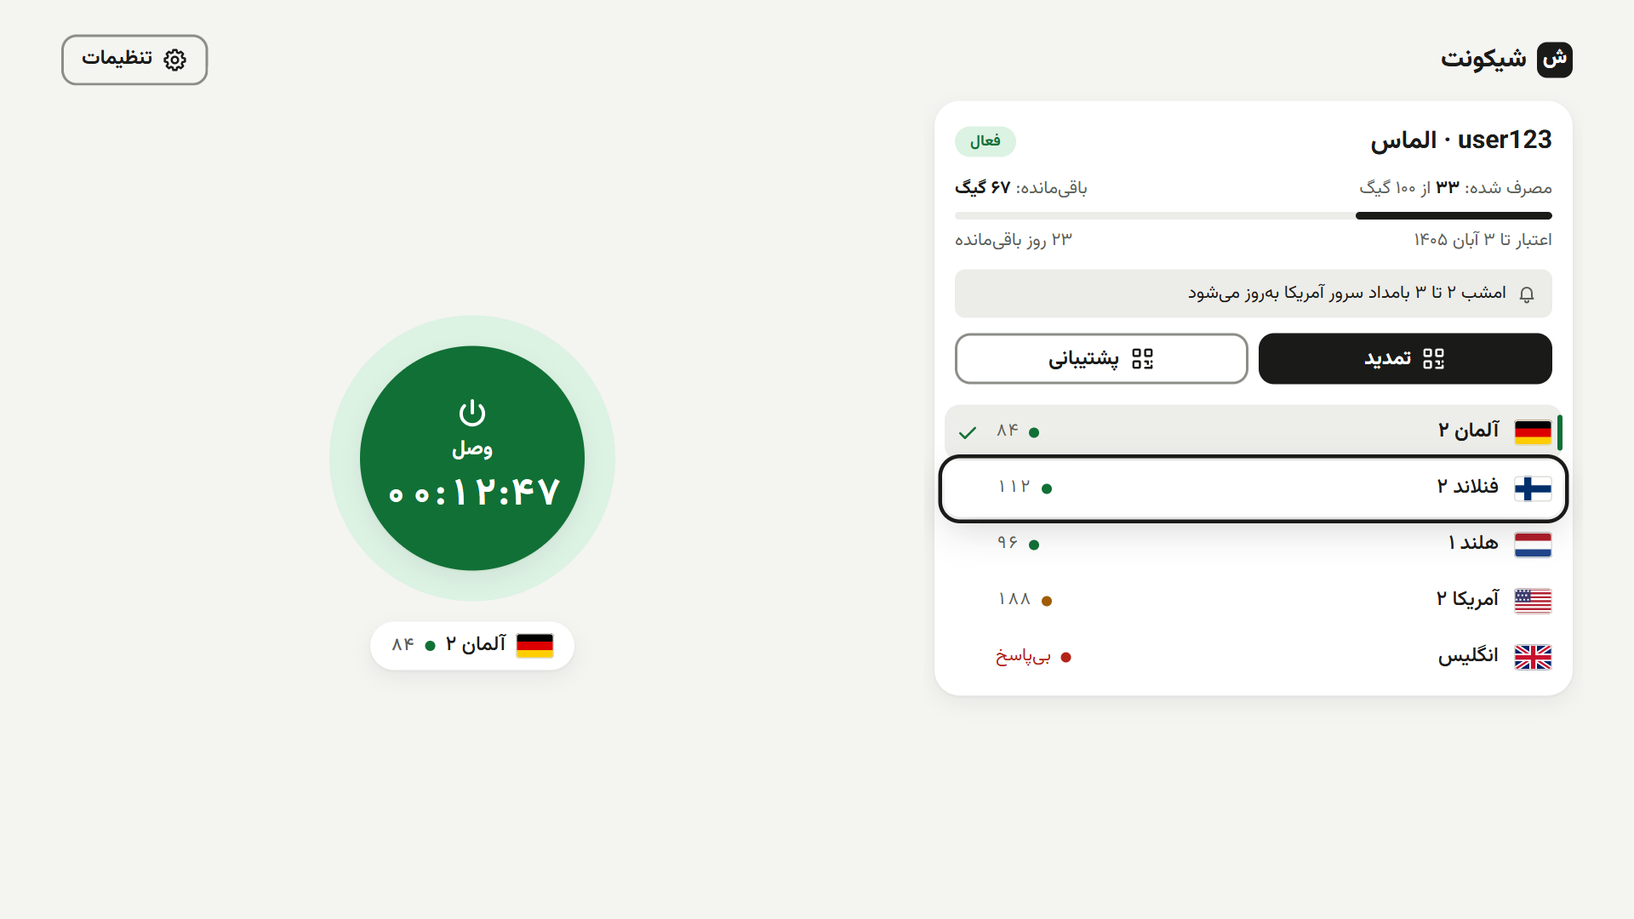
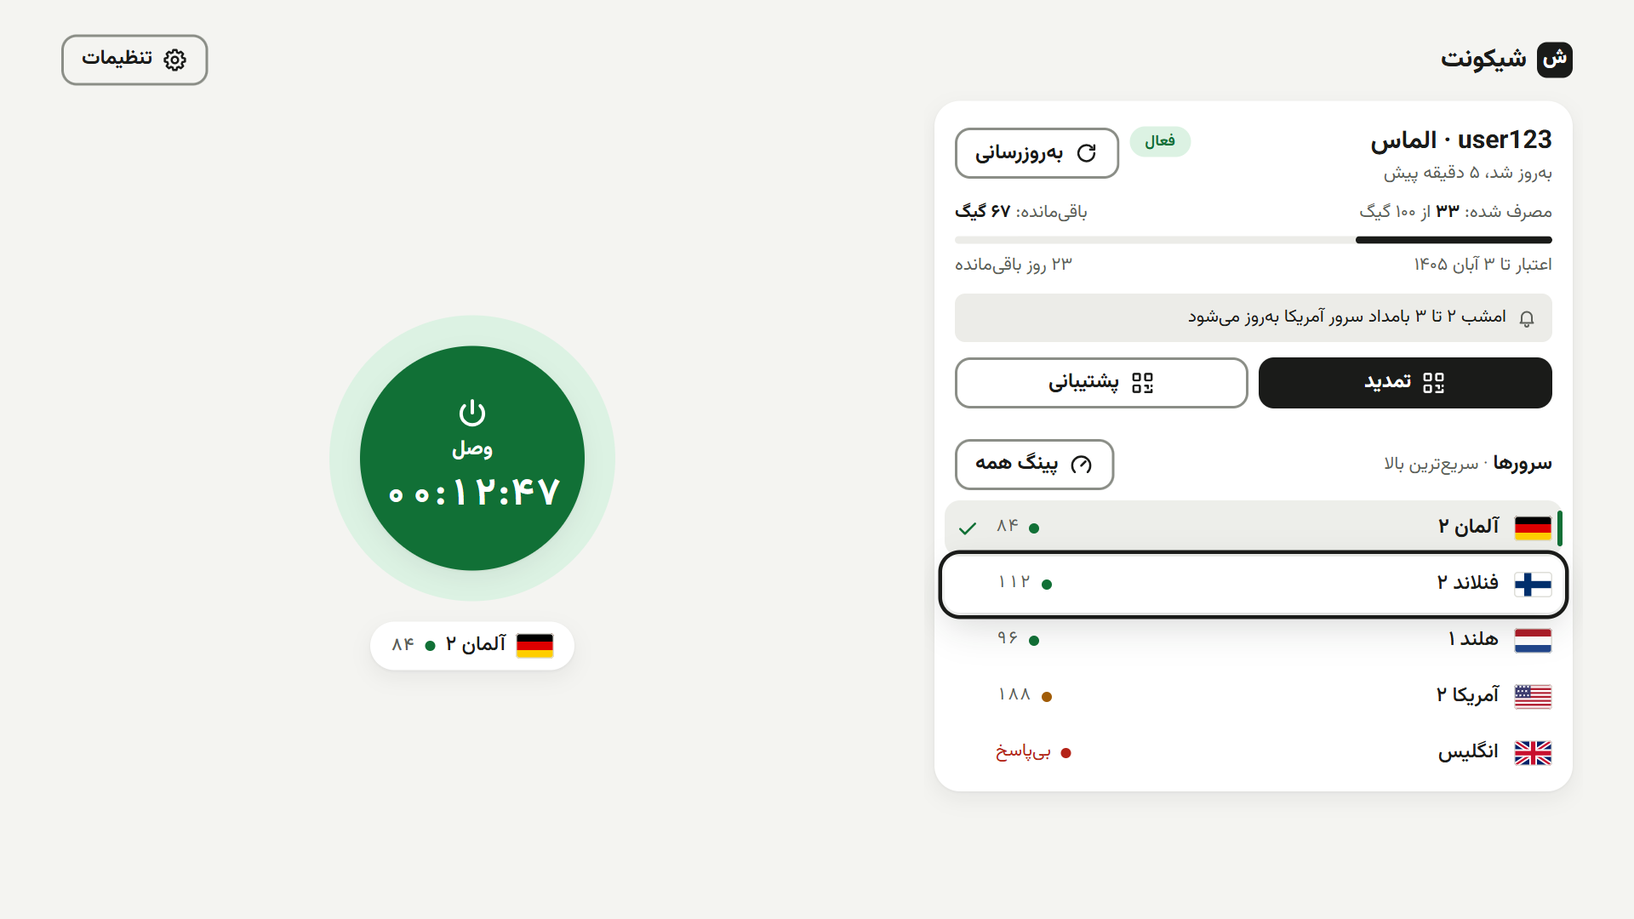
docs(design): rule on phone round 3 and catch up the old home frames
The renew-or-switch line breaks after the comma, so neither phone nor TV
leaves a lone word on line two; the out-of-data frame now shows it with a
second service. The older home frames get the refresh header and list
head the app already has, and the phone connect timeout reads 30 seconds
like the app.

diff --git a/design/mockups/phone-states.html b/design/mockups/phone-states.html
@@ -52,8 +52,11 @@
         </section>
         <article class="card svc">
           <header class="svc-head">
-            <h2 class="svc-name"><bdi dir="ltr">user123</bdi> · الماس</h2>
-            <span class="chip chip-positive">فعال</span>
+            <div class="svc-titles">
+              <div class="svc-line"><h2 class="svc-name"><bdi dir="ltr">user123</bdi> · الماس</h2><span class="chip chip-positive">فعال</span></div>
+              <p class="svc-sub">بهروز شد، ۵ دقیقه پیش</p>
+            </div>
+            <button class="icon-btn" type="button" aria-label="بهروزرسانی سرورها"><svg class="icon"><use href="#i-refresh"/></svg></button>
             <svg class="icon"><use href="#i-chevron-up"/></svg>
           </header>
           <div class="usage">
@@ -65,6 +68,10 @@
           <div class="actions">
             <button class="btn btn-primary" type="button">تمدید</button>
             <button class="btn btn-outline" type="button">پشتیبانی</button>
+          </div>
+          <div class="list-head">
+            <div class="search"><svg class="icon"><use href="#i-search"/></svg><span>جستوجوی سرور</span></div>
+            <button class="btn btn-outline" type="button"><svg class="icon"><use href="#i-gauge"/></svg>پینگ همه</button>
           </div>
           <ul class="servers">
             <li class="server is-selected"><svg class="flag"><use href="#f-de"/></svg><span class="name">آلمان ۲<bdi class="proto">V2Ray</bdi></span><span class="ping">۸۴</span><svg class="icon tick"><use href="#i-check"/></svg></li>
@@ -79,7 +86,7 @@
       <div class="gesture"></div>
     </div>
     <p class="note">«وصل» فقط وقتی نشان داده میشود که موتور اتصال را واقعاً تأیید کرده باشد؛ تا آن موقع همین حالت میماند.</p>
-    <p class="note"><b>پیشنهاد</b>اگر تا ۲۰ ثانیه وصل نشد، به «وصل نشد» میرود (قاب بعدی). عدد ۲۰ ثانیه حدس است و باید روی شبکهٔ واقعی سنجیده شود.</p>
+    <p class="note">اگر تا ۳۰ ثانیه وصل نشد، به «وصل نشد» میرود (قاب بعدی). ۳۰ ثانیه مهلتِ خودِ اپ است، مثل تلویزیون؛ روی شبکهٔ واقعی سنجیده نشده.</p>
   </figure>
 
   <!-- خطای اتصال -->
@@ -100,12 +107,15 @@
               <span class="power-sub">دوباره بزن</span>
             </button>
           </div>
-          <p class="power-msg danger">آلمان ۲ تا ۲۰ ثانیه جواب نداد. دوباره بزن، یا از فهرست سرور دیگری انتخاب کن.</p>
+          <p class="power-msg danger">آلمان ۲ تا ۳۰ ثانیه جواب نداد. دوباره بزن، یا از فهرست سرور دیگری انتخاب کن.</p>
         </section>
         <article class="card svc">
           <header class="svc-head">
-            <h2 class="svc-name"><bdi dir="ltr">user123</bdi> · الماس</h2>
-            <span class="chip chip-positive">فعال</span>
+            <div class="svc-titles">
+              <div class="svc-line"><h2 class="svc-name"><bdi dir="ltr">user123</bdi> · الماس</h2><span class="chip chip-positive">فعال</span></div>
+              <p class="svc-sub">بهروز شد، ۵ دقیقه پیش</p>
+            </div>
+            <button class="icon-btn" type="button" aria-label="بهروزرسانی سرورها"><svg class="icon"><use href="#i-refresh"/></svg></button>
             <svg class="icon"><use href="#i-chevron-up"/></svg>
           </header>
           <div class="usage">
@@ -117,6 +127,10 @@
           <div class="actions">
             <button class="btn btn-primary" type="button">تمدید</button>
             <button class="btn btn-outline" type="button">پشتیبانی</button>
+          </div>
+          <div class="list-head">
+            <div class="search"><svg class="icon"><use href="#i-search"/></svg><span>جستوجوی سرور</span></div>
+            <button class="btn btn-outline" type="button"><svg class="icon"><use href="#i-gauge"/></svg>پینگ همه</button>
           </div>
           <ul class="servers">
             <li class="server is-selected"><svg class="flag"><use href="#f-de"/></svg><span class="name">آلمان ۲<bdi class="proto">V2Ray</bdi></span><span class="ping bad">بیپاسخ</span><svg class="icon tick"><use href="#i-check"/></svg></li>
@@ -131,7 +145,7 @@
       <div class="gesture"></div>
     </div>
     <p class="note">دکمهٔ گرد حالا یعنی «دوباره». پینگِ سرورِ انتخابشده هم «بیپاسخ» میشود تا علت دیده شود.</p>
-    <p class="note"><b>پیشنهاد</b>«۲۰ ثانیه» در متن این قاب حدس است؛ مهلت واقعی باید روی شبکهٔ واقعی سنجیده و تعیین شود.</p>
+    <p class="note">عدد پیام همان مهلت اپ است (۳۰ ثانیه)؛ اگر مهلت عوض شد، این عدد هم با آن عوض میشود.</p>
   </figure>
 
   <!-- حجم تمام شده -->
@@ -151,7 +165,7 @@
               <span class="power-label">حجم تمام شده</span>
             </div>
           </div>
-          <p class="power-msg">با «تمدید» دوباره وصل میشوی.</p>
+          <p class="power-msg">با «تمدید» دوباره وصل میشوی،<br>یا سرویس دیگرت را انتخاب کن.</p>
         </section>
         <article class="card svc">
           <header class="svc-head">
@@ -174,12 +188,23 @@
           </div>
           <p class="state-msg">فهرست سرورها بعد از تمدید برمیگردد.</p>
         </article>
+        <article class="card svc">
+          <header class="svc-head">
+            <div class="svc-titles">
+              <div class="svc-line"><h2 class="svc-name"><bdi dir="ltr">user789</bdi> · معمولی</h2><span class="chip chip-positive">فعال</span></div>
+              <p class="svc-sub">بهروز شد، ۵ دقیقه پیش</p>
+            </div>
+            <button class="icon-btn" type="button" aria-label="بهروزرسانی سرورها"><svg class="icon"><use href="#i-refresh"/></svg></button>
+            <svg class="icon"><use href="#i-chevron-down"/></svg>
+          </header>
+          <p class="svc-summary">مصرف شده: ۱۲ از ۵۰ گیگ · اعتبار تا ۱۰ آذر ۱۴۰۵</p>
+        </article>
       </div>
       <div class="gesture"></div>
     </div>
     <p class="note">نوار مثل ربات به اندازهٔ مصرف پر میشود و «۱۰۰٪» فقط برای حجمی است که واقعاً تمام شده.</p>
     <p class="note">سربرگ همان سربرگ کارت فعال است. دکمهٔ بهروزرسانی اینجا لازمتر است: مشتری در ربات تمدید میکند و برمیگردد، و بهروزرسانیِ خودکار تا ۱۰ دقیقه نمیآید. اطلاعیهٔ پنل هم میماند، چون شاید دربارهٔ همین تمدید باشد.</p>
-    <p class="note"><b>پیشنهاد</b>اگر سرویس فعال دیگری روی گوشی هست، پیام زیر دکمه این میشود: «با «تمدید» دوباره وصل میشوی، یا سرویس دیگرت را انتخاب کن.» تا مشتریای که دو سرویس دارد، برای وصل شدن پول تمدید ندهد.</p>
+    <p class="note">این قاب سرویس فعال دیگری هم دارد، پس پیام زیر دکمه دو خطِ ثابت است: «با «تمدید» دوباره وصل میشوی،» و «یا سرویس دیگرت را انتخاب کن.»، تا مشتریای که دو سرویس دارد برای وصل شدن پول تمدید ندهد. بی سرویس دیگر، فقط خط اول میآید (قاب بعدی). شکستنِ خودکار روی تلویزیون «کن.» را تنها به خط دوم میفرستاد.</p>
   </figure>
 
   <!-- اعتبار تمام شده -->
@@ -693,7 +718,7 @@
       <p class="notice msg danger"><svg class="icon"><use href="#i-alert"/></svg><span><strong>لینک الان باز نشد.</strong> کمی بعد دوباره بزن؛ اگر باز نشد، از «پشتیبانی» بپرس.</span></p>
     </div>
     <p class="note">از بالا: دکمه تا جواب سرور، کلیپبورد خالی، لینک غیرشیکونت، لینکی که سرور دیگر نمیشناسد، بیاینترنت، و جوابی که خوانده نشد. همه جای پیام قاب قبلی میآیند.</p>
-    <p class="note">«باطل شده یا منقضی» فقط وقتی است که سرور صریح بگوید این لینک را نمیشناسد (۴۰۴ یا ۴۱۰). خطای سرور (۵۰۰ به بالا)، جواب خالی، یا صفحهٔ وب بهجای اشتراک «لینک الان باز نشد» است: اپ نمیداند لینک خراب است، پس نباید بگوید باطل شده. صفحهٔ وب ممکن است صفحهٔ ورودِ وایفایِ هتل یا صفحهٔ فیلتر باشد. «سرور» در متن نمیآید، چون مشتری آن را با سرورهای فهرست یکی میگیرد.</p>
+    <p class="note">«باطل شده یا منقضی» فقط وقتی است که سرور صریح بگوید این لینک را نمیشناسد (۴۰۴ یا ۴۱۰). خطای سرور (۵۰۰ به بالا)، جواب خالی، صفحهٔ وب بهجای اشتراک، یا اشتراکی که فقط ردیفهای غیرسرور دارد و حجم و اعتبارش هم تمام نشده، «لینک الان باز نشد» است: اپ نمیداند لینک خراب است، پس نباید بگوید باطل شده. صفحهٔ وب ممکن است صفحهٔ ورودِ وایفایِ هتل یا صفحهٔ فیلتر باشد. «سرور» در متن نمیآید، چون مشتری آن را با سرورهای فهرست یکی میگیرد.</p>
     <p class="note">لینکِ سرویسی که از قبل روی گوشی است، کارت دوم نمیسازد: نام کاربری در پنل یکتاست، پس همان کارت لینک تازه را میگیرد و باز میشود. لینک تازه کار کرده، پس لینک قبلی همان است که باطل شده.</p>
     <p class="note">سرویسی که فقط اعتبار یا حجمش تمام شده، باطل حساب نمیشود: اضافه میشود و خانه «تمدید» را نشان میدهد. «باطل شده یا منقضی» فقط برای لینکی است که سرور دیگر جواب نمیدهد.</p>
     <p class="note"><b>پیشنهاد</b>اگر نشانی اشتراک از ایران بیفیلترشکن باز نشود، «اینترنت وصل نیست» گمراهکننده است. اینکه اپ این دو را از هم جدا کند، با برنامهنویس است.</p>

diff --git a/design/mockups/tv-states.html b/design/mockups/tv-states.html
@@ -42,8 +42,11 @@
           <div class="tv-col-content">
             <article class="card svc">
               <header class="svc-head">
-                <h2 class="svc-name"><bdi dir="ltr">user123</bdi> · الماس</h2>
-                <span class="chip chip-positive">فعال</span>
+                <div class="svc-titles">
+                  <div class="svc-line"><h2 class="svc-name"><bdi dir="ltr">user123</bdi> · الماس</h2><span class="chip chip-positive">فعال</span></div>
+                  <p class="svc-sub">بهروز شد، ۵ دقیقه پیش</p>
+                </div>
+                <button class="btn btn-outline" type="button"><svg class="icon"><use href="#i-refresh"/></svg>بهروزرسانی</button>
               </header>
               <div class="usage">
                 <div class="usage-row"><span>مصرف شده: <strong>۳۳</strong> از ۱۰۰ گیگ</span><span>باقیمانده: <strong>۶۷ گیگ</strong></span></div>
@@ -54,6 +57,10 @@
               <div class="actions">
                 <button class="btn btn-primary" type="button"><svg class="icon"><use href="#i-qr"/></svg>تمدید</button>
                 <button class="btn btn-outline" type="button"><svg class="icon"><use href="#i-qr"/></svg>پشتیبانی</button>
+              </div>
+              <div class="list-head">
+                <p class="list-caption"><strong>سرورها</strong> · سریعترین بالا</p>
+                <button class="btn btn-outline" type="button"><svg class="icon"><use href="#i-gauge"/></svg>پینگ همه</button>
               </div>
               <ul class="servers">
                 <li class="server is-selected"><svg class="flag"><use href="#f-de"/></svg><span class="name">آلمان ۲<bdi class="proto">V2Ray</bdi></span><span class="ping">۸۴</span><svg class="icon tick"><use href="#i-check"/></svg></li>
@@ -94,8 +101,11 @@
           <div class="tv-col-content">
             <article class="card svc">
               <header class="svc-head">
-                <h2 class="svc-name"><bdi dir="ltr">user123</bdi> · الماس</h2>
-                <span class="chip chip-positive">فعال</span>
+                <div class="svc-titles">
+                  <div class="svc-line"><h2 class="svc-name"><bdi dir="ltr">user123</bdi> · الماس</h2><span class="chip chip-positive">فعال</span></div>
+                  <p class="svc-sub">بهروز شد، ۵ دقیقه پیش</p>
+                </div>
+                <button class="btn btn-outline" type="button"><svg class="icon"><use href="#i-refresh"/></svg>بهروزرسانی</button>
               </header>
               <div class="usage">
                 <div class="usage-row"><span>مصرف شده: <strong>۳۳</strong> از ۱۰۰ گیگ</span><span>باقیمانده: <strong>۶۷ گیگ</strong></span></div>
@@ -106,6 +116,10 @@
               <div class="actions">
                 <button class="btn btn-primary" type="button"><svg class="icon"><use href="#i-qr"/></svg>تمدید</button>
                 <button class="btn btn-outline" type="button"><svg class="icon"><use href="#i-qr"/></svg>پشتیبانی</button>
+              </div>
+              <div class="list-head">
+                <p class="list-caption"><strong>سرورها</strong> · سریعترین بالا</p>
+                <button class="btn btn-outline" type="button"><svg class="icon"><use href="#i-gauge"/></svg>پینگ همه</button>
               </div>
               <ul class="servers">
                 <li class="server is-selected"><svg class="flag"><use href="#f-de"/></svg><span class="name">آلمان ۲<bdi class="proto">V2Ray</bdi></span><span class="ping">۸۴</span><svg class="icon tick"><use href="#i-check"/></svg></li>

diff --git a/design/mockups/phone.html b/design/mockups/phone.html
@@ -80,8 +80,11 @@
         </section>
         <article class="card svc">
           <header class="svc-head">
-            <h2 class="svc-name"><bdi dir="ltr">user123</bdi> · الماس</h2>
-            <span class="chip chip-positive">فعال</span>
+            <div class="svc-titles">
+              <div class="svc-line"><h2 class="svc-name"><bdi dir="ltr">user123</bdi> · الماس</h2><span class="chip chip-positive">فعال</span></div>
+              <p class="svc-sub">بهروز شد، ۵ دقیقه پیش</p>
+            </div>
+            <button class="icon-btn" type="button" aria-label="بهروزرسانی سرورها"><svg class="icon"><use href="#i-refresh"/></svg></button>
             <svg class="icon"><use href="#i-chevron-up"/></svg>
           </header>
           <div class="usage">
@@ -93,6 +96,10 @@
           <div class="actions">
             <button class="btn btn-primary" type="button">تمدید</button>
             <button class="btn btn-outline" type="button">پشتیبانی</button>
+          </div>
+          <div class="list-head">
+            <div class="search"><svg class="icon"><use href="#i-search"/></svg><span>جستوجوی سرور</span></div>
+            <button class="btn btn-outline" type="button"><svg class="icon"><use href="#i-gauge"/></svg>پینگ همه</button>
           </div>
           <ul class="servers">
             <li class="server is-selected"><svg class="flag"><use href="#f-de"/></svg><span class="name">آلمان ۲<bdi class="proto">V2Ray</bdi></span><span class="ping">۸۴</span><svg class="icon tick"><use href="#i-check"/></svg></li>
@@ -131,8 +138,11 @@
         </section>
         <article class="card svc">
           <header class="svc-head">
-            <h2 class="svc-name"><bdi dir="ltr">user123</bdi> · الماس</h2>
-            <span class="chip chip-positive">فعال</span>
+            <div class="svc-titles">
+              <div class="svc-line"><h2 class="svc-name"><bdi dir="ltr">user123</bdi> · الماس</h2><span class="chip chip-positive">فعال</span></div>
+              <p class="svc-sub">بهروز شد، ۵ دقیقه پیش</p>
+            </div>
+            <button class="icon-btn" type="button" aria-label="بهروزرسانی سرورها"><svg class="icon"><use href="#i-refresh"/></svg></button>
             <svg class="icon"><use href="#i-chevron-up"/></svg>
           </header>
           <div class="usage">
@@ -144,6 +154,10 @@
           <div class="actions">
             <button class="btn btn-primary" type="button">تمدید</button>
             <button class="btn btn-outline" type="button">پشتیبانی</button>
+          </div>
+          <div class="list-head">
+            <div class="search"><svg class="icon"><use href="#i-search"/></svg><span>جستوجوی سرور</span></div>
+            <button class="btn btn-outline" type="button"><svg class="icon"><use href="#i-gauge"/></svg>پینگ همه</button>
           </div>
           <ul class="servers">
             <li class="server is-selected"><svg class="flag"><use href="#f-de"/></svg><span class="name">آلمان ۲<bdi class="proto">V2Ray</bdi></span><span class="ping">۸۴</span><svg class="icon tick"><use href="#i-check"/></svg></li>

diff --git a/design/mockups/tv.html b/design/mockups/tv.html
@@ -80,8 +80,11 @@
           <div class="tv-col-content">
             <article class="card svc">
               <header class="svc-head">
-                <h2 class="svc-name"><bdi dir="ltr">user123</bdi> · الماس</h2>
-                <span class="chip chip-positive">فعال</span>
+                <div class="svc-titles">
+                  <div class="svc-line"><h2 class="svc-name"><bdi dir="ltr">user123</bdi> · الماس</h2><span class="chip chip-positive">فعال</span></div>
+                  <p class="svc-sub">بهروز شد، ۵ دقیقه پیش</p>
+                </div>
+                <button class="btn btn-outline" type="button"><svg class="icon"><use href="#i-refresh"/></svg>بهروزرسانی</button>
               </header>
               <div class="usage">
                 <div class="usage-row"><span>مصرف شده: <strong>۳۳</strong> از ۱۰۰ گیگ</span><span>باقیمانده: <strong>۶۷ گیگ</strong></span></div>
@@ -92,6 +95,10 @@
               <div class="actions">
                 <button class="btn btn-primary" type="button"><svg class="icon"><use href="#i-qr"/></svg>تمدید</button>
                 <button class="btn btn-outline" type="button"><svg class="icon"><use href="#i-qr"/></svg>پشتیبانی</button>
+              </div>
+              <div class="list-head">
+                <p class="list-caption"><strong>سرورها</strong> · سریعترین بالا</p>
+                <button class="btn btn-outline" type="button"><svg class="icon"><use href="#i-gauge"/></svg>پینگ همه</button>
               </div>
               <ul class="servers">
                 <li class="server is-selected"><svg class="flag"><use href="#f-de"/></svg><span class="name">آلمان ۲<bdi class="proto">V2Ray</bdi></span><span class="ping">۸۴</span><svg class="icon tick"><use href="#i-check"/></svg></li>
